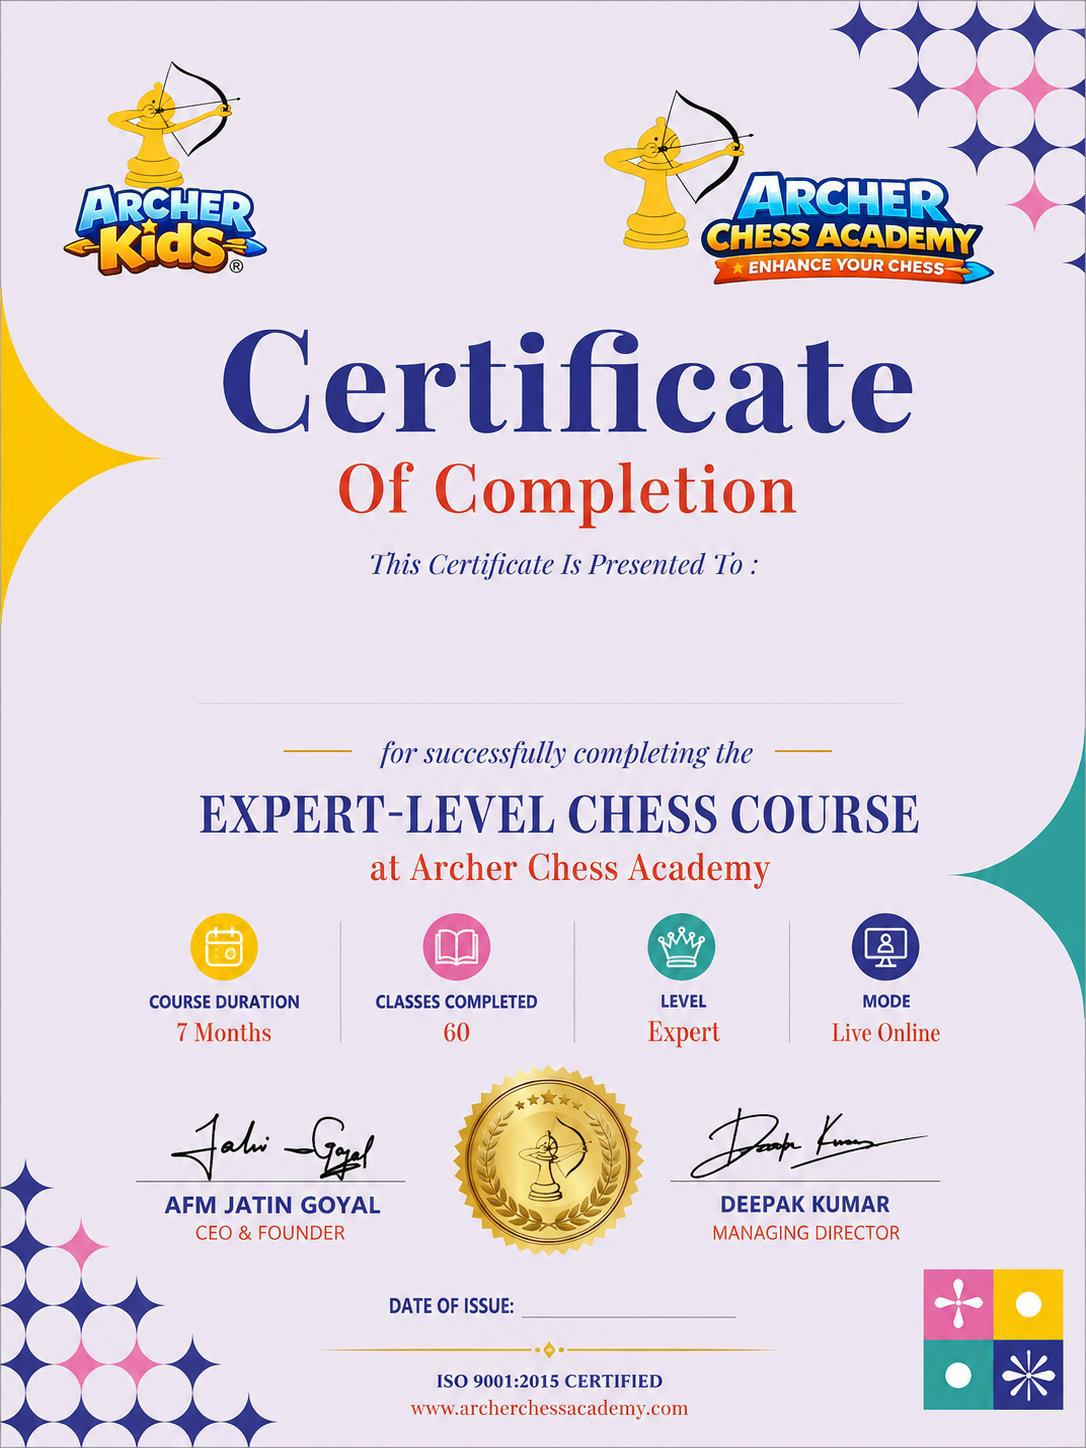
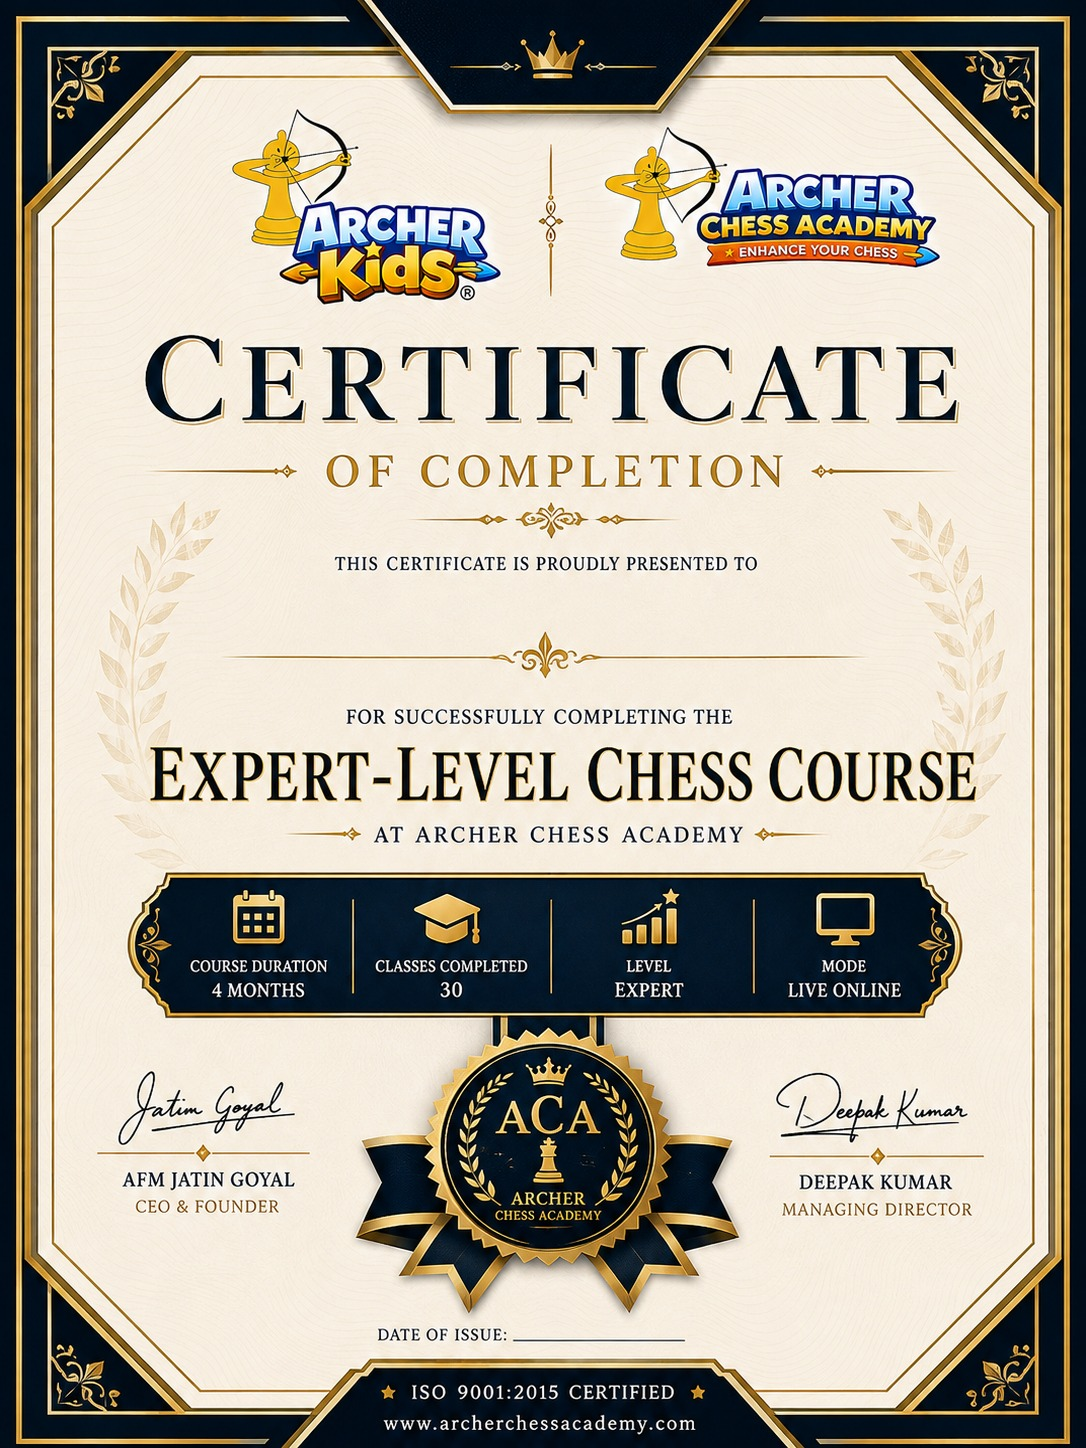
Update expert certificate labels and issue dates

diff --git a/resources/views/Admin/StudentDashboard/certificates.blade.php b/resources/views/Admin/StudentDashboard/certificates.blade.php
@@ -28,6 +28,16 @@
         width: 80%;
     }
 
+    .certificate-date {
+        position: absolute;
+        transform: translate(-50%, -50%);
+        color: #0d2246;
+        font-size: 9px;
+        white-space: nowrap;
+        font-weight: 700;
+        text-align: center;
+    }
+
     /* .blurred-image {
         filter: blur(8px);
     } */
@@ -71,7 +81,8 @@
                 <div class="card-body p-0">
                     <div style="position: relative; display: inline-block;">
                         <img src="/backend/tcul-imgs/bl_1.jpg" alt="" class="certificate-preview">
-                        <span class="certificate-name" style="top: 46%;">{{ isset($student->full_name) ? $student->full_name : '' }}</span>
+                        <span class="certificate-name" style="top: {{ $certificateDefinitions['BL']['name_top'] }};">{{ isset($student->full_name) ? $student->full_name : '' }}</span>
+                        <span class="certificate-date" style="top: {{ $certificateDefinitions['BL']['date_top'] }}; left: {{ $certificateDefinitions['BL']['date_left'] }};">{{ $certificateIssueDates['BL'] ?? '' }}</span>
                         @if($certificatesLevel['level_1'] == false)
                             <div class="icon-overlay" style="position: absolute; top: 50%; left: 50%; transform: translate(-50%, -50%); width: 100%; height: 100%; display: flex; align-items: center; justify-content: center; background: rgba(0, 0, 0, 0.5);">
                                 <i class="fas fa-lock lock-icon" style="font-size: 50px; color: rgba(255, 255, 255, 0.8);"></i>
@@ -80,7 +91,7 @@
                     </div>
                     <div class="p-4 d-flex align-items-center justify-content-between">
                         <div>
-                            <h6 class="fw-semibold mb-0 fs-4">Beginner Level</h6>
+                            <h6 class="fw-semibold mb-0 fs-4">{{ $certificateDefinitions['BL']['label'] }}</h6>
                         </div>
                         @if($certificatesLevel['level_1'] == true)
                         <a target="_blank" href="{{ route('admin.student.certificates.pdf', ['student' => $student->id ,'level'=>'BL']) }}" style="">
@@ -96,7 +107,8 @@
                 <div class="card-body p-0">
                         <div style="position: relative; display: inline-block;">
                             <img src="/backend/tcul-imgs/iml_1.jpg" alt="" class="certificate-preview">
-                            <span class="certificate-name" style="top: 44.5%;">{{ isset($student->full_name) ? $student->full_name : '' }}</span>
+                            <span class="certificate-name" style="top: {{ $certificateDefinitions['IML_1']['name_top'] }};">{{ isset($student->full_name) ? $student->full_name : '' }}</span>
+                            <span class="certificate-date" style="top: {{ $certificateDefinitions['IML_1']['date_top'] }}; left: {{ $certificateDefinitions['IML_1']['date_left'] }};">{{ $certificateIssueDates['IML_1'] ?? '' }}</span>
                             @if($certificatesLevel['level_2'] == false)
                                 <!-- Lock icon overlay -->
                                 <div class="icon-overlay" style="position: absolute; top: 50%; left: 50%; transform: translate(-50%, -50%); width: 100%; height: 100%; display: flex; align-items: center; justify-content: center; background: rgba(0, 0, 0, 0.5);">
@@ -106,7 +118,7 @@
                         </div>
                     <div class="p-4 d-flex align-items-center justify-content-between">
                         <div>
-                            <h6 class="fw-semibold mb-0 fs-4">Intermediate</h6>
+                            <h6 class="fw-semibold mb-0 fs-4">{{ $certificateDefinitions['IML_1']['label'] }}</h6>
                         </div>
                         @if($certificatesLevel['level_2'] == true)
                             <a target="_blank" href="{{ route('admin.student.certificates.pdf', ['student' => $student->id ,'level'=>'IML_1']) }}">
@@ -123,7 +135,8 @@
                 <div class="card-body p-0">
                         <div style="position: relative; display: inline-block;">
                             <img src="/backend/tcul-imgs/iml_2.jpg" alt="" class="certificate-preview">
-                            <span class="certificate-name" style="top: 47%;">{{ isset($student->full_name) ? $student->full_name : '' }}</span>
+                            <span class="certificate-name" style="top: {{ $certificateDefinitions['IML_2']['name_top'] }};">{{ isset($student->full_name) ? $student->full_name : '' }}</span>
+                            <span class="certificate-date" style="top: {{ $certificateDefinitions['IML_2']['date_top'] }}; left: {{ $certificateDefinitions['IML_2']['date_left'] }};">{{ $certificateIssueDates['IML_2'] ?? '' }}</span>
                             @if($certificatesLevel['level_3'] == false)
                                 <!-- Lock icon overlay -->
                                 <div class="icon-overlay" style="position: absolute; top: 50%; left: 50%; transform: translate(-50%, -50%); width: 100%; height: 100%; display: flex; align-items: center; justify-content: center; background: rgba(0, 0, 0, 0.5);">
@@ -133,7 +146,7 @@
                         </div>
                     <div class="p-4 d-flex align-items-center justify-content-between">
                         <div>
-                            <h6 class="fw-semibold mb-0 fs-4">Advance Level</h6>
+                            <h6 class="fw-semibold mb-0 fs-4">{{ $certificateDefinitions['IML_2']['label'] }}</h6>
                             {{-- <span class="text-dark fs-2">Wed, Dec 14, 2023</span> --}}
                         </div>
                         @if($certificatesLevel['level_3'] == true)
@@ -151,7 +164,8 @@
                 <div class="card-body p-0">
                         <div style="position: relative; display: inline-block;">
                             <img src="/backend/tcul-imgs/Advanced_level_1.jpg" alt="" class="certificate-preview">
-                            <span class="certificate-name" style="top: 40%;">{{ isset($student->full_name) ? $student->full_name : '' }}</span>
+                            <span class="certificate-name" style="top: {{ $certificateDefinitions['Advanced_level_1']['name_top'] }};">{{ isset($student->full_name) ? $student->full_name : '' }}</span>
+                            <span class="certificate-date" style="top: {{ $certificateDefinitions['Advanced_level_1']['date_top'] }}; left: {{ $certificateDefinitions['Advanced_level_1']['date_left'] }};">{{ $certificateIssueDates['Advanced_level_1'] ?? '' }}</span>
                             @if($certificatesLevel['level_4'] == false)
                                 <!-- Lock icon overlay -->
                                 <div class="icon-overlay" style="position: absolute; top: 50%; left: 50%; transform: translate(-50%, -50%); width: 100%; height: 100%; display: flex; align-items: center; justify-content: center; background: rgba(0, 0, 0, 0.5);">
@@ -161,7 +175,7 @@
                         </div>
                     <div class="p-4 d-flex align-items-center justify-content-between">
                         <div>
-                            <h6 class="fw-semibold mb-0 fs-4">Advance Level 2</h6>
+                            <h6 class="fw-semibold mb-0 fs-4">{{ $certificateDefinitions['Advanced_level_1']['label'] }}</h6>
                         </div>
                         @if($certificatesLevel['level_4'] == true)
                             <a target="_blank" href="{{ route('admin.student.certificates.pdf', ['student' => $student->id ,'level'=>'Advanced_level_1']) }}">
@@ -177,7 +191,8 @@
                 <div class="card-body p-0">
                         <div style="position: relative; display: inline-block;">
                             <img src="/backend/tcul-imgs/Advanced_level_2.jpg" alt="" class="certificate-preview">
-                            <span class="certificate-name" style="top: 43%;">{{ isset($student->full_name) ? $student->full_name : '' }}</span>
+                            <span class="certificate-name" style="top: {{ $certificateDefinitions['Advanced_level_2']['name_top'] }};">{{ isset($student->full_name) ? $student->full_name : '' }}</span>
+                            <span class="certificate-date" style="top: {{ $certificateDefinitions['Advanced_level_2']['date_top'] }}; left: {{ $certificateDefinitions['Advanced_level_2']['date_left'] }};">{{ $certificateIssueDates['Advanced_level_2'] ?? '' }}</span>
                             @if($certificatesLevel['level_5'] == false)
                                 <!-- Lock icon overlay -->
                                <div class="icon-overlay" style="position: absolute; top: 50%; left: 50%; transform: translate(-50%, -50%); width: 100%; height: 100%; display: flex; align-items: center; justify-content: center; background: rgba(0, 0, 0, 0.5);">
@@ -187,7 +202,7 @@
                         </div>
                     <div class="p-4 d-flex align-items-center justify-content-between">
                         <div>
-                            <h6 class="fw-semibold mb-0 fs-4">Expert-1 (Module-1)</h6>
+                            <h6 class="fw-semibold mb-0 fs-4">{{ $certificateDefinitions['Advanced_level_2']['label'] }}</h6>
                         </div>
                         @if($certificatesLevel['level_5'] == true)
                             <a target="_blank" href="{{ route('admin.student.certificates.pdf', ['student' => $student->id ,'level'=>'Advanced_level_2']) }}">
@@ -203,7 +218,8 @@
                 <div class="card-body p-0">
                         <div style="position: relative; display: inline-block;">
                             <img src="/backend/tcul-imgs/Advanced_level_3.jpg" alt="" class="certificate-preview">
-                            <span class="certificate-name" style="top: 47%;">{{ isset($student->full_name) ? $student->full_name : '' }}</span>
+                            <span class="certificate-name" style="top: {{ $certificateDefinitions['Advanced_level_3']['name_top'] }};">{{ isset($student->full_name) ? $student->full_name : '' }}</span>
+                            <span class="certificate-date" style="top: {{ $certificateDefinitions['Advanced_level_3']['date_top'] }}; left: {{ $certificateDefinitions['Advanced_level_3']['date_left'] }};">{{ $certificateIssueDates['Advanced_level_3'] ?? '' }}</span>
                             @if($certificatesLevel['level_6'] == false)
                                 <!-- Lock icon overlay -->
                                 <div class="icon-overlay" style="position: absolute; top: 50%; left: 50%; transform: translate(-50%, -50%); width: 100%; height: 100%; display: flex; align-items: center; justify-content: center; background: rgba(0, 0, 0, 0.5);">
@@ -213,7 +229,7 @@
                         </div>
                     <div class="p-4 d-flex align-items-center justify-content-between">
                         <div>
-                            <h6 class="fw-semibold mb-0 fs-4">Expert-1 (Module-2)</h6>
+                            <h6 class="fw-semibold mb-0 fs-4">{{ $certificateDefinitions['Advanced_level_3']['label'] }}</h6>
                         </div>
                         @if($certificatesLevel['level_6'] == true)
                             <a target="_blank" href="{{ route('admin.student.certificates.pdf', ['student' => $student->id ,'level'=>'Advanced_level_3']) }}">

diff --git a/app/Http/Controllers/Admin/StudentDashboardController.php b/app/Http/Controllers/Admin/StudentDashboardController.php
@@ -30,55 +30,85 @@ class StudentDashboardController extends Controller
         return [
             'BL' => [
                 'key' => 'level_1',
+                'label' => 'Beginner Level',
                 'level_ids' => [1, 2],
                 'image' => 'bl_1.jpg',
                 'name_top' => '46%',
+                'date_top' => '92.5%',
+                'date_left' => '79%',
                 'pdf_name_top' => '387pt',
+                'pdf_date_top' => '779pt',
+                'pdf_date_left' => '410pt',
                 'font_size' => '30px',
                 'pdf_font_size' => '20pt',
             ],
             'IML_1' => [
                 'key' => 'level_2',
+                'label' => 'Intermediate A',
                 'level_ids' => [5],
                 'image' => 'iml_1.jpg',
                 'name_top' => '44.5%',
+                'date_top' => '88.5%',
+                'date_left' => '50%',
                 'pdf_name_top' => '375pt',
+                'pdf_date_top' => '745pt',
+                'pdf_date_left' => '265pt',
                 'font_size' => '28px',
                 'pdf_font_size' => '18pt',
             ],
             'IML_2' => [
                 'key' => 'level_3',
+                'label' => 'Intermediate B',
                 'level_ids' => [10],
                 'image' => 'iml_2.jpg',
                 'name_top' => '47%',
+                'date_top' => '91.5%',
+                'date_left' => '50%',
                 'pdf_name_top' => '396pt',
+                'pdf_date_top' => '770pt',
+                'pdf_date_left' => '265pt',
                 'font_size' => '28px',
                 'pdf_font_size' => '18pt',
             ],
             'Advanced_level_1' => [
                 'key' => 'level_4',
+                'label' => 'Advanced 1',
                 'level_ids' => [19],
                 'image' => 'Advanced_level_1.jpg',
                 'name_top' => '40%',
+                'date_top' => '91.5%',
+                'date_left' => '58%',
                 'pdf_name_top' => '337pt',
+                'pdf_date_top' => '770pt',
+                'pdf_date_left' => '315pt',
                 'font_size' => '28px',
                 'pdf_font_size' => '18pt',
             ],
             'Advanced_level_2' => [
                 'key' => 'level_5',
+                'label' => 'Advanced 2',
                 'level_ids' => [16],
                 'image' => 'Advanced_level_2.jpg',
                 'name_top' => '43%',
+                'date_top' => '89.5%',
+                'date_left' => '55%',
                 'pdf_name_top' => '362pt',
+                'pdf_date_top' => '754pt',
+                'pdf_date_left' => '300pt',
                 'font_size' => '28px',
                 'pdf_font_size' => '18pt',
             ],
             'Advanced_level_3' => [
                 'key' => 'level_6',
+                'label' => 'Expert Level',
                 'level_ids' => [17, 18],
                 'image' => 'Advanced_level_3.jpg',
-                'name_top' => '47%',
-                'pdf_name_top' => '396pt',
+                'name_top' => '45.5%',
+                'date_top' => '91.8%',
+                'date_left' => '56%',
+                'pdf_name_top' => '383pt',
+                'pdf_date_top' => '773pt',
+                'pdf_date_left' => '305pt',
                 'font_size' => '28px',
                 'pdf_font_size' => '18pt',
             ],
@@ -102,6 +132,26 @@ class StudentDashboardController extends Controller
         }
 
         return $unlocked;
+    }
+
+    private function studentCertificateIssueDates(Student $student): array
+    {
+        $issueDates = [];
+
+        foreach ($this->studentCertificateDefinitions() as $certificateKey => $definition) {
+            $endDate = $student->studentBatches()
+                ->whereIn('level_id', $definition['level_ids'])
+                ->whereNotNull('end_date')
+                ->orderBy('end_date', 'desc')
+                ->orderBy('id', 'desc')
+                ->value('end_date');
+
+            $issueDates[$certificateKey] = $endDate
+                ? Carbon::parse($endDate)->format('d M Y')
+                : null;
+        }
+
+        return $issueDates;
     }
 
     private function canViewStudentEvents(?Student $student): bool
@@ -723,8 +773,10 @@ class StudentDashboardController extends Controller
         abort_if(! $student, 404);
 
         $certificatesLevel = $this->unlockedStudentCertificateLevels($student);
+        $certificateDefinitions = $this->studentCertificateDefinitions();
+        $certificateIssueDates = $this->studentCertificateIssueDates($student);
 
-        return view('Admin.StudentDashboard.certificates', compact('student', 'certificatesLevel'));
+        return view('Admin.StudentDashboard.certificates', compact('student', 'certificatesLevel', 'certificateDefinitions', 'certificateIssueDates'));
     }
     public function studentCertificatesPdf(Request $request, Student $student)
     {
@@ -745,6 +797,7 @@ class StudentDashboardController extends Controller
         $data['level']     = $certificateKey;
         $data['studentId'] = $student->student_id;
         $data['certificate'] = $definition;
+        $data['issue_date'] = $this->studentCertificateIssueDates($student)[$certificateKey] ?? '';
 
         $pdf = PDF::loadView('Admin.StudentDashboard.Form-Sections.student-certificates-pdf', $data);
         $pdf->setPaper('A4', 'portrait');

diff --git a/resources/views/Admin/StudentDashboard/Form-Sections/student-certificates-pdf.blade.php b/resources/views/Admin/StudentDashboard/Form-Sections/student-certificates-pdf.blade.php
@@ -48,12 +48,28 @@
             text-align: center;
             width: 595pt;
         }
+
+        .issue-date {
+            position: absolute;
+            top: {{ $certificate['pdf_date_top'] }};
+            left: {{ $certificate['pdf_date_left'] }};
+            transform: translate(-50%, -50%);
+            font-weight: bold;
+            font-size: 10pt;
+            line-height: 1;
+            color: #0d2246;
+            white-space: nowrap;
+            text-align: center;
+        }
     </style>
 </head>
 <body>
     <div class="certificate-container">
         <img src="{{ storage_path('certificates/' . $certificate['image']) }}" alt="Certificate" class="certificate-bg">
         <span class="student-name">{{ ucwords(strtolower($full_name)) }}</span>
+        @if(!empty($issue_date))
+            <span class="issue-date">{{ $issue_date }}</span>
+        @endif
     </div>
 </body>
 </html>

diff --git a/docs/PROJECT-CONTEXT.md b/docs/PROJECT-CONTEXT.md
@@ -715,7 +715,9 @@ overlap exists when existing_from < selected_to AND existing_to > selected_from
 ```text
 - Student certificate templates are image-backed and are stored in both storage/certificates for PDF generation and public/backend/tcul-imgs for dashboard preview.
 - Current certificate templates are portrait images; PDF generation uses A4 portrait.
-- Only the student full name is printed dynamically on the certificate template; the PDF filename uses the student portal ID.
+- Student full name and issue date are printed dynamically on the certificate template; issue date comes from the latest matching student batch end date for that certificate level.
+- Certificate grid labels are mapped to the actual templates: Beginner, Intermediate A, Intermediate B, Advanced 1, Advanced 2, and Expert Level.
+- Expert Level now uses the latest Expert_Certificate artwork in the Advanced_level_3 certificate slot.
 - Certificate unlock is based on historical student_batches.level_id values.
 - Beginner certificate unlocks for level IDs 1 or 2; the old overwrite bug that ignored level ID 1 is fixed.
 - PDF download now re-checks that the logged-in student owns the requested certificate and that the certificate level is unlocked before streaming the file.
